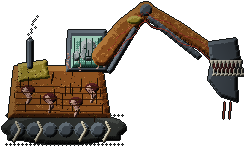
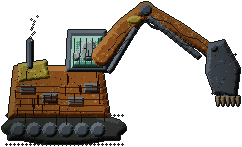
Excavator redrawn as a plain husk-driven machine
Claude-Session: https://claude.ai/code/session_01Jpd5tdDJTR7BVueAYV1KDM

diff --git a/ArtSource/make_boss_concepts.py b/ArtSource/make_boss_concepts.py
@@ -308,23 +308,22 @@ def excavator():
     PAINT = ramp("#2e2808", "#524a10", "#7a6c1c", "#a08c30", "#c4b058")
     IRON = ramp("#0a0b0c", "#181b1e", "#2c3236", "#48515a", "#6e7a84")
     TRACK = ramp("#060606", "#121312", "#202220", "#323532", "#484c48")
-    HOSE = ramp("#2a0a08", "#561812", "#8a2c20", "#b84a38", "#e08a78")
+    HOSE = ramp("#050505", "#0e0e0e", "#1a1a1a", "#2a2a2a", "#3e3e3e")
     GLASS = ramp("#0e1a16", "#1c3a30", "#2e5c4c", "#56907c", "#a8d8c4")
     FLESH = ramp("#241816", "#4a2e2a", "#78504a", "#a47c70", "#cfa898")
     S = (260, 160); L, part = mk(S); rnd = random.Random(2)
     # crawler tracks: a long rounded body, road wheels, link teeth
     part(lambda m: m.ell(80, 138, 62, 16).poly([(24, 130), (136, 130), (136, 150), (24, 150)]), TRACK, tex=0.1, seed=1, depth=4.0)
     for wx in range(34, 130, 16): w = Mask(S); w.ell(wx, 140, 7.4, 7.4); L.append(shade(w, IRON, depth=2.4))
-    for bx in (30, 52, 96, 120):                                                                                        # bones and rags jammed in the tracks
-        b_ = Mask(S); b_.tube([(bx, 150), (bx + 6, 140), (bx + 2, 132)], [3, 2.6, 2]); L.append(shade(b_, BONE, depth=1.2))
     tr = paint(S, [])
     for x in range(22, 140, 4): px(tr, [(x, 124 + (1 if x % 8 else 0)), (x, 154)], TRACK[4])
     L.append(tr)
     # the house: a heavy rust-and-yellow box, peeling paint, the engine hump behind the cab
     part(lambda m: m.poly([(30, 76), (118, 76), (126, 128), (24, 128)]), RUST, tex=0.24, seed=2, depth=5.0)
     part(lambda m: m.poly([(34, 74), (62, 70), (66, 88), (34, 92)]), PAINT, tex=0.3, seed=3, depth=2.4)
-    for (fx, fy) in ((44, 100), (66, 108), (92, 112), (108, 98)):                                                      # vents burst open, flesh pushing out of them
-        v_ = Mask(S); v_.ell(fx, fy, 7, 5); L.append(shade(v_, DARK, depth=1.6)); f_ = Mask(S); f_.tube([(fx - 3, fy), (fx + 2, fy + 8), (fx - 1, fy + 14)], [5, 4, 2.6]); L.append(shade(f_, FLESH, depth=1.8, tex=0.15, seed=fx))
+    for (fx, fy) in ((44, 100), (66, 108), (92, 112), (108, 98)):                                                      # louvred engine vents, a few slats bent
+        v_ = Mask(S); v_.poly([(fx - 8, fy - 5), (fx + 8, fy - 5), (fx + 8, fy + 5), (fx - 8, fy + 5)]); L.append(shade(v_, IRON, depth=1.4))
+        for k in range(4): line_im = paint(S, []); line(line_im, fx - 7, fy - 3 + k * 2.4, fx + 7, fy - 3 + k * 2.4 + (1 if (fx + k) % 3 == 0 else 0), RUST[1]); L.append(line_im)
     pl = paint(S, [])
     for _ in range(80): px(pl, [(rnd.randint(30, 120), rnd.randint(78, 126))], rnd.choice([RUST[0], RUST[1], PAINT[1]]))
     for yy in range(96, 126, 6): line(pl, 32, yy, 118, yy + 1, RUST[1])
@@ -336,9 +335,6 @@ def excavator():
     hd = Mask(S); hd.ell(104, 60, 9, 11); hm.alpha_composite(shade(hd, ramp("#1a1c1a", "#34383a", "#5a6062", "#8c9496", "#c0c8c8"), depth=3.0))      # the husk's grey face
     for (ex, ey) in ((100, 58), (108, 58)): px(hm, [(ex, ey), (ex + 1, ey)], rgb("#04100a"))
     px(hm, [(x, 66) for x in range(101, 108)], rgb("#04100a")); px(hm, [(104, y) for y in range(60, 66)], rgb("#10201a"))
-    for (x0, y0) in ((86, 80), (96, 82), (112, 80), (120, 78)):                                                                                     # flesh creeping up the cab frame
-        x, y = x0, y0
-        for i in range(14): nx = x + rnd.uniform(-1, 1); ny = y - rnd.uniform(0.8, 1.6); px(hm, [(nx, ny), (nx + 1, ny)], FLESH[rnd.choice((2, 3, 3, 4))]); x, y = nx, ny
     for (hx_, hy_, fl) in ((92, 66, 1), (116, 68, -1)):                                                              # the husk's hands pressed flat on the glass, fingers spread
         hh = Mask(S); hh.ell(hx_, hy_, 4.4, 5); hm.alpha_composite(shade(hh, ramp("#1a1c1a", "#34383a", "#5a6062", "#8c9496", "#c0c8c8"), depth=1.6))
         for k in range(5): a_ = math.radians(-80 + k * 22); line(hm, hx_, hy_, hx_ + math.cos(a_) * 7 * fl, hy_ + math.sin(a_) * 7, rgb("#a8b0b0"))
@@ -353,12 +349,13 @@ def excavator():
         n = int(max(abs(x1 - x0), abs(y1 - y0))); 
         for i in range(n + 1): u = i / n; x = x0 + (x1 - x0) * u; y = y0 + (y1 - y0) * u + 2 * math.sin(u * 14); px(hm, [(x, y)], HOSE[2 + (i // 3) % 2])
     hat = Mask(S); hat.ell(150, 30, 7, 4); hm.alpha_composite(shade(hat, PAINT, depth=1.6))
-    # the bucket: a jaw, upper and lower, open, teeth along both, the hinge at the arm tip, drool of hydraulic oil
-    up = Mask(S); up.poly([(224, 52), (252, 48), (256, 70), (240, 74), (226, 70)]); hm.alpha_composite(shade(up, IRON, tex=0.1, seed=7, depth=2.6))
-    lo = Mask(S); lo.poly([(226, 76), (252, 84), (254, 112), (236, 106), (224, 90)]); hm.alpha_composite(shade(lo, IRON, tex=0.1, seed=8, depth=2.6))
-    inn = Mask(S); inn.poly([(228, 72), (252, 72), (250, 84), (230, 82)]); hm.alpha_composite(shade(inn, DARK, depth=1.2))
-    for x in range(226, 256, 4): hm.alpha_composite(shade((lambda m: (m.poly([(x, 70), (x + 4, 70), (x + 2, 79)]), m)[1])(Mask(S)), ramp("#3a3730", "#6a665a", "#9a9482", "#c8c2ac", "#eee8d4"), depth=1.0)); hm.alpha_composite(shade((lambda m: (m.poly([(x + 2, 86), (x + 6, 86), (x + 4, 77)]), m)[1])(Mask(S)), ramp("#3a3730", "#6a665a", "#9a9482", "#c8c2ac", "#eee8d4"), depth=1.0))
-    for x in (240, 246): line(hm, x, 112, x - 1, 128 + (x % 3), HOSE[3])
+    # the bucket: an ordinary dented steel scoop on the arm tip, five blunt digging teeth along the lip, dirt and rust caked in it
+    sc = Mask(S); sc.poly([(224, 54), (240, 50), (256, 78), (252, 108), (230, 104), (222, 82)]); hm.alpha_composite(shade(sc, IRON, tex=0.2, seed=7, depth=3.4))
+    lip = Mask(S); lip.poly([(240, 104), (252, 108), (254, 112), (236, 110)]); hm.alpha_composite(shade(lip, IRON, depth=1.2))
+    for k in range(5):
+        tx = 232 + k * 5; t_ = Mask(S); t_.poly([(tx, 106), (tx + 4, 106), (tx + 3, 116), (tx + 1, 116)]); hm.alpha_composite(shade(t_, ramp("#2a2218", "#4a3c28", "#6e5a3c", "#96805a", "#baa47a"), depth=1.0))
+    for _ in range(40): px(hm, [(rnd.randint(228, 252), rnd.randint(60, 104))], rnd.choice([RUST[1], RUST[2], PAINT[0]]))
+    pin = Mask(S); pin.ell(230, 58, 4, 4); hm.alpha_composite(shade(pin, IRON, depth=2.0))
     # exhaust stack and steam, rust streaks, oil stains
     stk = Mask(S); stk.tube([(46, 76), (46, 52)], [6, 6]); hm.alpha_composite(shade(stk, IRON, depth=1.6))
     for k in range(10): px(hm, [(46 + rnd.uniform(-3, 3) + k * 0.5, 50 - k * 2.6)], rnd.choice([(150, 150, 150, 110), (110, 110, 110, 90)]))

diff --git a/BOSS_DESIGNS.md b/BOSS_DESIGNS.md
@@ -8,7 +8,7 @@ Direction words (for the artist, never shown to players): wrongness over gore, o
 | **Mother Hollow** (T1, Secret Cave) | The Pallid Prowler grown huge: the same lean bone-grey hound with the humped shoulder, thin folded legs and a long wedge head, swollen with her brood (redone 2026-11-20: Yan said the first version did not remind him of Pallid Prowlers) | nothing human is needed: she is a Prowler | sacs along the belly with small Prowler pups pushing out, mouths already glowing green; no eyes, only sockets | the Prowler's acid green | the sacs twitch before a brood wave, the maw glows brighter |
 | **The Ferryman** (T3, Stranded Ferry) | Tall drowned figure in an oilskin coat, rope-bound, water always running off it | a lifebelt with the ferry's name, a ticket punch | a ship's lantern for a head with something pale moving in the glass | lantern green | the lantern swings, the deck tilts |
 | **The Specimen, grown** (T4, Deep Caverns) | A brain the size of a bed on a spray of spinal legs | the lab collar still around one stalk, a name card in the slime | too many mouths on the nerve tips, an eye in the wrong place | wet pink | stalks probe in a pattern that remembers you |
-| **The Excavator** (T5, Quarry Basin) | A mining rig with a bucket of teeth, hoses like veins | a Husk fused into the cab, a hard hat on the boom | the bucket is a jaw, hydraulic fluid is dark red, the cab glass is wet from inside | rust orange | boom sweep, jaw chomp, steam vents |
+| **The Excavator** (T5, Quarry Basin) | A plain, wrecked mining excavator (Yan: a *husk-driven rig*, not a fleshy one; the first version's flesh vents, vein hoses and jaw bucket were my additions and were removed 2026-11-20) | the Husk driving it, hands on the cab glass; a hard hat still on the boom | none: the only wrong thing is the driver; wet cab glass | rust orange | boom sweep, dig-slam, scoop-and-throw, steam vents |
 | **The Choir** (T6, Bell Tower) | A column of Husks fused mouth to mouth up the tower | their work uniforms still on | every mouth open on the same note | bell brass | the column sways on each toll |
 | **The Mind** (T7, final) | No body: a foundry hall that has become a face | the transmitters like teeth, the lift cable like a tongue | the walls breathe on the 11 s beat | cold violet | the hall exhales |
 

diff --git a/ArtSource/WORK_LOG.md b/ArtSource/WORK_LOG.md
@@ -6805,3 +6805,4 @@ Yan: "Mother Hollow next, then the Ferryman". `make_boss_concepts.py` now draws 
 
 ## Batch 9v - boss concepts: the Specimen grown and the Excavator (2026-11-20)
 Yan: "Specimen first, then the Excavator". Specimen grown 178x170 (the Lab Alpha brain after the vat: lobed wet brain with three veined violet eyes of different sizes, spinal-vertebra legs, three toothed mouths on nerve tips, the lab collar and a name card still on, green vat-glass shards fused into the crown, cables trailing, loose nerve strands, crackle), the Excavator 242x139 (rust-and-faded-yellow rig, elbowed boom with hydraulic cylinders and vein-like hoses, a hard hat on the boom, a husk behind the cab glass with hands pressed on it, flesh bursting from the vents, bones jammed in the tracks, a toothed jaw bucket with oil drool). Hand-built concepts, two passes each, not in the game.
+- (2026-11-20, later) Yan on the Excavator: "is fleshy? it has teeth?" The flesh vents, vein-like hoses and jaw bucket were mine, not his ("husk-driven mining rig"). Redrawn as a plain wrecked excavator: louvred vents, black rubber hoses, a dented steel scoop with five blunt digging teeth, the Husk behind the cab glass the only living thing. The Specimen grown: "looks ok" (kept).
